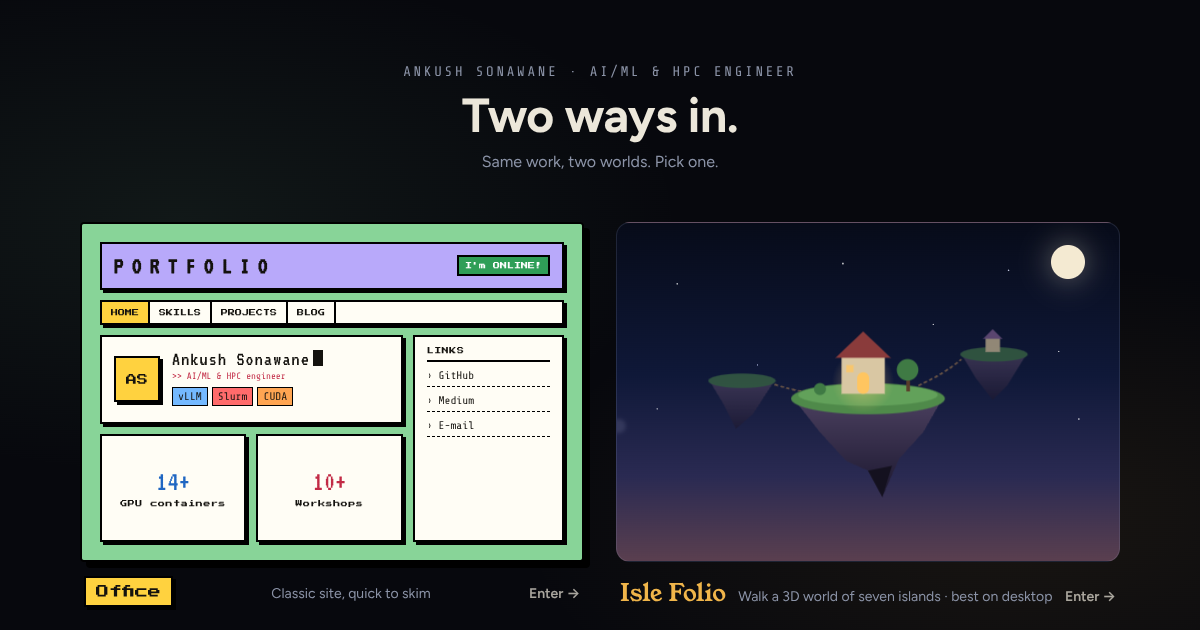
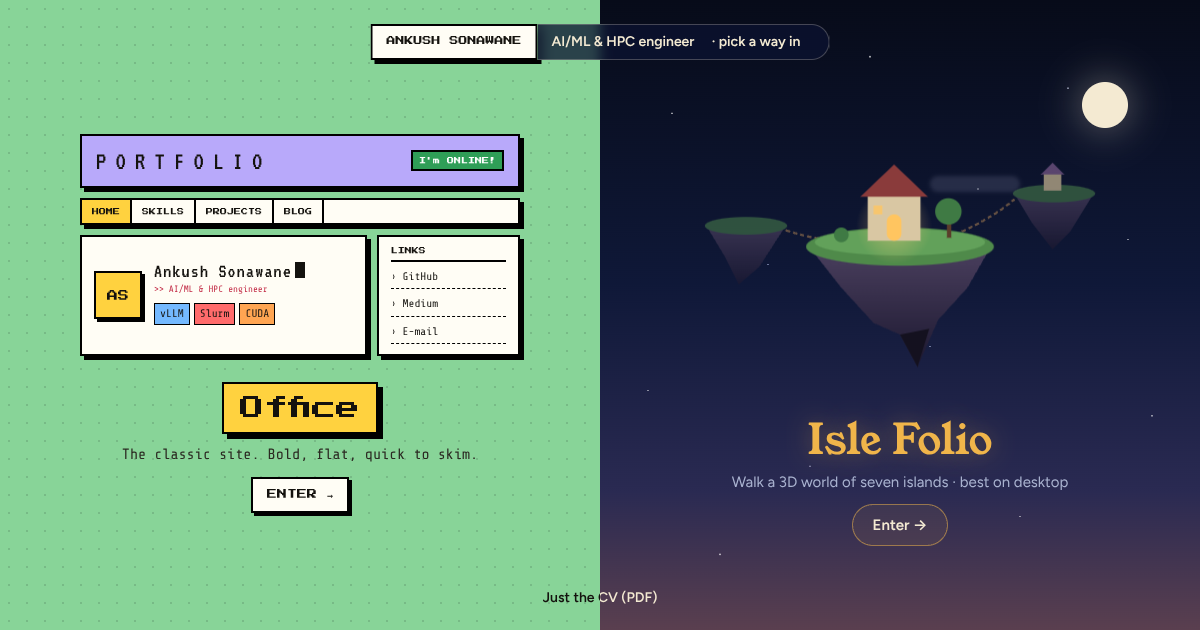
Gateway: split screen into the two portfolios' own worlds
The gateway was a generic dark page holding two cards that each had their
own look, so it matched neither. Now the page itself is the choice:
- Left half is Office (mint dotted ground, mini neubrutalist page,
  pixel-font title and button); right half is Isle Folio's night sky
  (stars, moon, drifting clouds, bobbing islands, ember serif title).
- Hovering a half widens it and dims the other; the name chip (top) and
  CV link (bottom) ride the seam, each half styled in its own world.
- Phones stack the halves.
- og.png regenerated.

Claude-Session: https://claude.ai/code/session_01RsCNkEyLUGrr5oVvQHitHw

diff --git a/index.html b/index.html
@@ -1,5 +1,5 @@
 <!doctype html>
-<!-- Gateway: pick the classic Office portfolio or the 3D Isle Folio. Text is static so link previews can read it. -->
+<!-- Gateway: the page is split into the two portfolios' own worlds, Office (left) and Isle Folio (right). Text is static so link previews can read it. -->
 <html lang="en">
 <head>
 <meta charset="utf-8">
@@ -15,169 +15,184 @@
 <link rel="icon" type="image/png" href="shared/favicon.png">
 <link rel="preconnect" href="https://fonts.googleapis.com">
 <link rel="preconnect" href="https://fonts.gstatic.com" crossorigin>
-<link rel="stylesheet" href="https://fonts.googleapis.com/css2?family=VT323&family=Share+Tech+Mono&family=Press+Start+2P&family=Space+Grotesk:wght@700&family=Young+Serif&family=Figtree:wght@400;600;700&display=swap">
+<link rel="stylesheet" href="https://fonts.googleapis.com/css2?family=VT323&family=Share+Tech+Mono&family=Press+Start+2P&family=Young+Serif&family=Figtree:wght@400;600&display=swap">
 <style>
-:root{--bg:#07080d;--ink:#ece7da;--muted:#8b93a7;--line:rgba(173,186,222,.14);
-  --ember:#f0b54a}
+:root{--ink:#14120e;--paper:#FFFDF5;--mint:#88D498;--yellow:#FFD23F;--coral:#FF6B6B;--sky:#74B9FF;--orange:#FFA552;--lav:#B8A9FA;
+  --night:#0b1230;--cream:#f4ead2;--ember:#f0b54a;--haze:#a9b2cf}
 *{box-sizing:border-box;margin:0}
-html,body{min-height:100%}
-body{background:var(--bg);color:var(--ink);font:16px/1.5 Figtree,system-ui,sans-serif;
-  background-image:radial-gradient(60% 50% at 15% 30%,rgba(136,212,152,.08),transparent 70%),radial-gradient(60% 50% at 85% 70%,rgba(240,181,74,.08),transparent 70%);
-  display:grid;place-items:center;padding:clamp(24px,6vw,64px) 16px}
-main{width:100%;max-width:1040px}
-header{text-align:center;margin-bottom:clamp(28px,5vw,48px)}
-.kicker{font:14px 'Share Tech Mono',monospace;letter-spacing:.2em;text-transform:uppercase;color:var(--muted)}
-h1{font:700 clamp(30px,5vw,48px)/1.1 Figtree,sans-serif;margin:10px 0 8px;letter-spacing:-.01em}
-.sub{color:var(--muted)}
-.doors{display:grid;gap:24px;grid-template-columns:1fr}
-@media (min-width:760px){.doors{grid-template-columns:1fr 1fr;gap:32px}}
+html,body{height:100%}
+body{background:var(--night);font:16px/1.5 Figtree,system-ui,sans-serif;overflow-x:hidden}
+.sr{position:absolute;width:1px;height:1px;overflow:hidden;clip:rect(0 0 0 0)}
 
-.door{display:block;text-decoration:none;color:inherit;border-radius:18px;outline:none;transition:transform .35s cubic-bezier(.2,.8,.2,1)}
-.door:hover,.door:focus-visible{transform:translateY(-6px)}
-.screen{position:relative;height:clamp(260px,34vw,340px);border-radius:14px;overflow:hidden;border:1px solid var(--line);transition:box-shadow .35s,border-color .35s}
-.cap{display:flex;justify-content:space-between;align-items:baseline;gap:12px;padding:14px 4px 0;flex-wrap:wrap}
-.cap small{color:var(--muted);font-size:14px}
-.go{font-weight:600;font-size:14px;white-space:nowrap;opacity:.7;transition:opacity .3s,transform .3s}
-.door:hover .go,.door:focus-visible .go{opacity:1;transform:translateX(4px)}
+.split{position:relative;display:flex;min-height:100vh;min-height:100svh}
+.half{position:relative;flex:1 1 0;min-width:0;display:flex;flex-direction:column;align-items:center;justify-content:center;
+  gap:26px;padding:96px clamp(20px,4vw,56px) 80px;text-decoration:none;overflow:hidden;outline:none;
+  transition:flex-grow .55s cubic-bezier(.2,.8,.2,1),filter .4s}
+.half:hover,.half:focus-visible{flex-grow:1.3}
+.split:hover .half:not(:hover){filter:saturate(.6) brightness(.8)}
+.label{text-align:center;display:flex;flex-direction:column;align-items:center;gap:10px}
+.go{display:inline-block;transition:transform .2s}
 
-/* ---- office door: a mini of static-portfolio's neubrutalist "Office" look ---- */
-.office .screen{background:#88D498;border:2.5px solid #000;border-radius:4px;box-shadow:6px 6px 0 #000;color:#14120e;
-  font:11px 'Share Tech Mono',monospace;padding:clamp(12px,2vw,18px);display:flex;flex-direction:column;gap:10px;
-  transition:transform .15s,box-shadow .15s}
-.office:hover .screen,.office:focus-visible .screen{transform:translate(-3px,-3px);box-shadow:10px 10px 0 #000}
-.office:hover,.office:focus-visible{transform:none}
-.m-box{background:#FFFDF5;border:2px solid #000;box-shadow:3px 3px 0 #000}
-.m-head{background:#B8A9FA;display:flex;justify-content:space-between;align-items:center;padding:10px 12px}
-.m-logo{font:clamp(18px,2.4vw,24px) VT323,monospace;letter-spacing:.35em;font-weight:700}
+/* ---- Office half: static-portfolio's neubrutalist look ---- */
+.office{background:var(--mint) radial-gradient(rgba(0,0,0,.12) 1px,transparent 1.2px) 0 0/18px 18px;color:var(--ink);font-family:'Share Tech Mono',monospace}
+.mini{width:min(100%,440px);display:flex;flex-direction:column;gap:10px;font-size:11px;transition:transform .3s}
+.office:hover .mini,.office:focus-visible .mini{transform:rotate(-1.2deg) scale(1.02)}
+.m-box{background:var(--paper);border:2px solid #000;box-shadow:4px 4px 0 #000}
+.m-head{background:var(--lav);display:flex;justify-content:space-between;align-items:center;padding:12px 14px}
+.m-logo{font:26px VT323,monospace;letter-spacing:.35em}
 .m-badge{font:7px 'Press Start 2P',monospace;background:#2f9e57;color:#fff;border:2px solid #000;padding:5px 6px}
 .m-nav{display:flex;font:7px 'Press Start 2P',monospace}
-.m-nav i{font-style:normal;padding:7px 9px;border-right:2px solid #000}
+.m-nav i{font-style:normal;padding:8px 10px;border-right:2px solid #000}
 .m-nav i:nth-child(1){animation:tab 6s steps(1) infinite}
 .m-nav i:nth-child(2){animation:tab 6s steps(1) -4.5s infinite}
 .m-nav i:nth-child(3){animation:tab 6s steps(1) -3s infinite}
 .m-nav i:nth-child(4){animation:tab 6s steps(1) -1.5s infinite}
-@keyframes tab{0%{background:#FFD23F}25%,100%{background:transparent}}
-.m-grid{flex:1;display:grid;grid-template-columns:2fr 1fr;grid-template-rows:auto 1fr;gap:10px;min-height:0}
-.m-profile{display:flex;gap:12px;align-items:center;padding:12px}
-.m-av{flex:none;width:46px;height:46px;display:grid;place-items:center;background:#FFD23F;border:2px solid #000;box-shadow:3px 3px 0 #000;font:11px 'Press Start 2P',monospace}
-.m-profile b{display:block;font:20px VT323,monospace;letter-spacing:.06em}
-.m-profile b::after{content:"";display:inline-block;width:.5em;height:.8em;background:#14120e;margin-left:3px;vertical-align:-.05em;animation:blink 1s steps(1) infinite}
+@keyframes tab{0%{background:var(--yellow)}25%,100%{background:transparent}}
+.m-grid{display:grid;grid-template-columns:2fr 1fr;gap:10px}
+.m-profile{display:flex;gap:12px;align-items:center;padding:14px 12px}
+.m-av{flex:none;width:48px;height:48px;display:grid;place-items:center;background:var(--yellow);border:2px solid #000;box-shadow:3px 3px 0 #000;font:11px 'Press Start 2P',monospace}
+.m-profile b{display:block;font:20px VT323,monospace;letter-spacing:.06em;font-weight:400}
+.m-profile b::after{content:"";display:inline-block;width:.5em;height:.8em;background:var(--ink);margin-left:3px;vertical-align:-.05em;animation:blink 1s steps(1) infinite}
 .m-profile small{display:block;color:#c22a45;margin:2px 0 6px}
-.m-tags em{font-style:normal;display:inline-block;padding:2px 5px;margin:0 4px 4px 0;border:1.5px solid #000;background:#74B9FF}
-.m-tags em:nth-child(2){background:#FF6B6B}.m-tags em:nth-child(3){background:#FFA552}
-.m-side{grid-row:span 2;padding:10px 12px;display:flex;flex-direction:column;gap:7px}
-.m-side b,.m-stat small{font:7px 'Press Start 2P',monospace;letter-spacing:.08em}
-.m-side b{padding-bottom:6px;border-bottom:2px solid #000}
-.m-side span{border-bottom:1.5px dashed #000;padding-bottom:4px}
-.m-stats{display:grid;grid-template-columns:1fr 1fr;gap:10px}
-.m-stat{display:grid;place-items:center;align-content:center;gap:4px;padding:8px;transition:transform .15s,box-shadow .15s}
-.m-stat b{font:28px VT323,monospace;color:#1f66c2;line-height:1}
-.m-stat+.m-stat b{color:#c22a45}
-.office:hover .m-stat,.office:focus-visible .m-stat{transform:translate(2px,2px);box-shadow:1px 1px 0 #000}
+.m-tags em{font-style:normal;display:inline-block;padding:2px 5px;margin:0 4px 4px 0;border:1.5px solid #000;background:var(--sky)}
+.m-tags em:nth-child(2){background:var(--coral)}.m-tags em:nth-child(3){background:var(--orange)}
+.m-side{padding:10px 12px;display:flex;flex-direction:column;gap:7px}
+.m-side b{font:7px 'Press Start 2P',monospace;padding-bottom:6px;border-bottom:2px solid #000;font-weight:400}
+.m-side span{border-bottom:1.5px dashed #000;padding-bottom:3px}
 @keyframes blink{50%{opacity:0}}
-@media (max-width:520px){.m-stats{display:none}.m-grid{grid-template-rows:1fr}.m-side{grid-row:auto}}
-.office .cap b{font:13px 'Press Start 2P',monospace;color:#14120e;background:#FFD23F;border:2px solid #000;box-shadow:3px 3px 0 #000;padding:7px 10px}
+.office h2{font:400 clamp(18px,2.2vw,24px) 'Press Start 2P',monospace;background:var(--yellow);border:2.5px solid #000;box-shadow:5px 5px 0 #000;padding:12px 16px}
+.office p{font-size:15px;color:#2b2a22}
+.office .go{font:10px 'Press Start 2P',monospace;background:var(--paper);border:2px solid #000;box-shadow:3px 3px 0 #000;padding:10px 14px}
+.office:hover .go,.office:focus-visible .go{background:var(--coral);transform:translate(2px,2px);box-shadow:1px 1px 0 #000}
 
-/* ---- island door ---- */
-.isle .screen{background:linear-gradient(#070b19 0%,#0f1838 45%,#2a2a52 75%,#5a3f4f 100%)}
+/* ---- Isle half: Isle Folio's night sky ---- */
+.isle{background:linear-gradient(#070b19 0%,#0f1838 45%,#2a2a52 78%,#5a3f4f 100%);color:var(--cream)}
 .stars{position:absolute;inset:0;background-image:
   radial-gradient(1.2px 1.2px at 12% 18%,#fff,transparent),radial-gradient(1px 1px at 28% 42%,#cdd6ff,transparent),
-  radial-gradient(1.4px 1.4px at 45% 12%,#fff,transparent),radial-gradient(1px 1px at 63% 30%,#fff,transparent),
+  radial-gradient(1.4px 1.4px at 45% 9%,#fff,transparent),radial-gradient(1px 1px at 63% 30%,#fff,transparent),
   radial-gradient(1.2px 1.2px at 78% 14%,#dfe5ff,transparent),radial-gradient(1px 1px at 88% 38%,#fff,transparent),
-  radial-gradient(1px 1px at 8% 55%,#fff,transparent),radial-gradient(1.2px 1.2px at 92% 58%,#fff,transparent);
+  radial-gradient(1px 1px at 8% 62%,#fff,transparent),radial-gradient(1.2px 1.2px at 92% 66%,#fff,transparent),
+  radial-gradient(1px 1px at 35% 74%,#dfe5ff,transparent),radial-gradient(1px 1px at 70% 82%,#fff,transparent),
+  radial-gradient(1.3px 1.3px at 20% 88%,#fff,transparent),radial-gradient(1px 1px at 55% 55%,#cdd6ff,transparent);
   animation:twinkle 4s ease-in-out infinite alternate}
-.moon{position:absolute;top:22px;right:34px;width:34px;height:34px;border-radius:50%;background:#f4ead2;box-shadow:0 0 30px rgba(244,234,210,.45)}
-.cloud{position:absolute;height:14px;border-radius:999px;background:rgba(220,226,255,.12);filter:blur(2px)}
-.c1{width:120px;top:58%;left:-130px;animation:drift 26s linear infinite}
-.c2{width:80px;top:30%;left:-90px;animation:drift 34s linear -14s infinite}
-.isle svg{position:absolute;left:50%;top:52%;width:min(78%,360px);transform:translate(-50%,-50%);overflow:visible}
+.moon{position:absolute;top:13%;right:12%;width:46px;height:46px;border-radius:50%;background:var(--cream);box-shadow:0 0 40px rgba(244,234,210,.45)}
+.cloud{position:absolute;height:16px;border-radius:999px;background:rgba(220,226,255,.12);filter:blur(2px)}
+.c1{width:140px;top:62%;left:-150px;animation:drift 30s linear infinite}
+.c2{width:90px;top:28%;left:-100px;animation:drift 38s linear -16s infinite}
+.isle svg{position:relative;width:min(100%,440px);overflow:visible}
 .isle .main{animation:bob 5s ease-in-out infinite}
 .isle .far{animation:bob 6s ease-in-out -2s infinite}
 .glow{opacity:.45;transition:opacity .4s}
 .isle:hover .glow,.isle:focus-visible .glow{opacity:1}
-.isle:hover .screen,.isle:focus-visible .screen{border-color:rgba(240,181,74,.55);box-shadow:0 0 0 1px rgba(240,181,74,.2),0 0 44px rgba(240,181,74,.22)}
 .isle:hover .main,.isle:focus-visible .main{animation-duration:2.6s}
 @keyframes bob{50%{transform:translateY(-8px)}}
-@keyframes drift{to{transform:translateX(calc(100vw + 260px))}}
+@keyframes drift{to{transform:translateX(calc(60vw + 300px))}}
 @keyframes twinkle{to{opacity:.55}}
-.isle .cap b{font:400 24px 'Young Serif',serif;color:var(--ember)}
-.note{margin-top:8px;color:var(--ember);font-size:14px}
+.isle .label{position:relative}
+.isle h2{font:400 clamp(30px,3.6vw,42px)/1 'Young Serif',serif;color:var(--ember);text-shadow:0 0 24px rgba(240,181,74,.35)}
+.isle p{font-size:15px;color:var(--haze)}
+.isle .go{font-weight:600;font-size:15px;color:var(--cream);border:1px solid rgba(240,181,74,.5);border-radius:999px;padding:9px 20px;background:rgba(240,181,74,.08);transition:transform .2s,box-shadow .3s,background .3s}
+.isle:hover .go,.isle:focus-visible .go{background:rgba(240,181,74,.18);box-shadow:0 0 24px rgba(240,181,74,.35);transform:translateX(4px)}
+.note{color:var(--ember);font-size:14px;max-width:34ch}
 
-.door:focus-visible .screen{outline:2px solid var(--ink);outline-offset:4px}
-footer{margin-top:40px;text-align:center;font-size:14px;color:var(--muted)}
-footer a{color:inherit}
-@media (prefers-reduced-motion:reduce){*,*::before,*::after{animation:none!important;transition:none!important}
+/* ---- the seam: name across the top, CV across the bottom ---- */
+.who,.cv{position:absolute;left:50%;transform:translateX(-50%);z-index:2;display:flex;white-space:nowrap}
+.who,.cv{transition:left .55s cubic-bezier(.2,.8,.2,1)}
+.split:has(.office:hover) :is(.who,.cv),.split:has(.office:focus-visible) :is(.who,.cv){left:56.52%}  /* seam at 1.3/2.3 */
+.split:has(.isle:hover) :is(.who,.cv),.split:has(.isle:focus-visible) :is(.who,.cv){left:43.48%}
+.who{top:24px}
+.who span{padding:9px 14px}
+.who .a{font:9px/1.4 'Press Start 2P',monospace;color:var(--ink);background:var(--paper);border:2px solid #000;box-shadow:4px 4px 0 #000}
+.who .b{font:600 14px/1.15 Figtree,sans-serif;color:var(--cream);background:rgba(11,18,48,.75);border:1px solid rgba(244,234,210,.25);border-left:0;border-radius:0 999px 999px 0;backdrop-filter:blur(6px)}
+.cv{bottom:22px;font-size:14px;font-weight:600;text-decoration:underline;text-underline-offset:3px;
+  background:linear-gradient(90deg,var(--ink) 50%,var(--cream) 50%);-webkit-background-clip:text;background-clip:text;color:transparent}
+
+@media (max-width:760px){
+  .split{flex-direction:column}
+  .half{flex:none;padding:76px 20px 48px;gap:20px}
+  .half:hover,.half:focus-visible{flex-grow:1}
+  .split:hover .half:not(:hover){filter:none}
+  .who,.cv,.split:has(.half:hover) :is(.who,.cv){left:50%}
+  .who{top:16px}
+  .who span{padding:8px 10px}
+  .who .a{font-size:8px}.who .b{font-size:13px}.x{display:none}
+  .moon{top:22px;right:22px;width:34px;height:34px}
+  .isle{padding-top:48px}
+  .cv{background:none;color:var(--cream)}
+  .isle{padding-bottom:72px}
+  .m-side{display:none}.m-grid{grid-template-columns:1fr}
 }
+.half:focus-visible{outline:3px solid var(--yellow);outline-offset:-6px}
+@media (prefers-reduced-motion:reduce){*,*::before,*::after{animation:none!important;transition:none!important}}
 </style>
 </head>
 <body>
-<main>
-  <header>
-    <p class="kicker">Ankush Sonawane · AI/ML &amp; HPC engineer</p>
-    <h1>Two ways in.</h1>
-    <p class="sub">Same work, two worlds. Pick one.</p>
-  </header>
+<h1 class="sr">Ankush Sonawane, AI/ML &amp; HPC engineer. Pick a way into the portfolio.</h1>
+<main class="split">
+  <p class="who"><span class="a">ANKUSH SONAWANE</span><span class="b">AI/ML &amp; HPC engineer<span class="x"> · pick a way in</span></span></p>
 
-  <div class="doors">
-    <a class="door office" href="static-portfolio/" aria-label="Enter Office, the classic portfolio">
-      <div class="screen" aria-hidden="true">
-        <div class="m-box m-head"><span class="m-logo">PORTFOLIO</span><span class="m-badge">I'm ONLINE!</span></div>
-        <div class="m-box m-nav"><i>HOME</i><i>SKILLS</i><i>PROJECTS</i><i>BLOG</i></div>
-        <div class="m-grid">
-          <div class="m-box m-profile"><span class="m-av">AS</span><div><b>Ankush Sonawane</b><small>&gt;&gt; AI/ML &amp; HPC engineer</small><span class="m-tags"><em>vLLM</em><em>Slurm</em><em>CUDA</em></span></div></div>
-          <div class="m-box m-side"><b>LINKS</b><span>› GitHub</span><span>› Medium</span><span>› E-mail</span></div>
-          <div class="m-stats"><div class="m-box m-stat"><b>14+</b><small>GPU containers</small></div><div class="m-box m-stat"><b>10+</b><small>Workshops</small></div></div>
-        </div>
+  <a class="half office" href="static-portfolio/" aria-label="Enter Office, the classic portfolio">
+    <div class="mini" aria-hidden="true">
+      <div class="m-box m-head"><span class="m-logo">PORTFOLIO</span><span class="m-badge">I'm ONLINE!</span></div>
+      <div class="m-box m-nav"><i>HOME</i><i>SKILLS</i><i>PROJECTS</i><i>BLOG</i></div>
+      <div class="m-grid">
+        <div class="m-box m-profile"><span class="m-av">AS</span><div><b>Ankush Sonawane</b><small>&gt;&gt; AI/ML &amp; HPC engineer</small><span class="m-tags"><em>vLLM</em><em>Slurm</em><em>CUDA</em></span></div></div>
+        <div class="m-box m-side"><b>LINKS</b><span>› GitHub</span><span>› Medium</span><span>› E-mail</span></div>
       </div>
-      <div class="cap"><b>Office</b><small>Classic site, quick to skim</small><span class="go">Enter →</span></div>
-    </a>
+    </div>
+    <div class="label">
+      <h2>Office</h2>
+      <p>The classic site. Bold, flat, quick to skim.</p>
+      <span class="go">ENTER →</span>
+    </div>
+  </a>
 
-    <a class="door isle" href="isle-folio/" aria-label="Enter Isle Folio, the walkable 3D portfolio">
-      <div class="screen" aria-hidden="true">
-        <div class="stars"></div><div class="moon"></div>
-        <div class="cloud c1"></div><div class="cloud c2"></div>
-        <svg viewBox="0 0 300 200">
-          <defs>
-            <radialGradient id="dg"><stop offset="0" stop-color="#ffd27a"/><stop offset="1" stop-color="#ffd27a" stop-opacity="0"/></radialGradient>
-            <linearGradient id="rk" x1="0" x2="0" y1="0" y2="1"><stop offset="0" stop-color="#4a3f5e"/><stop offset="1" stop-color="#1c1830"/></linearGradient>
-          </defs>
-          <g class="far" opacity=".7">
-            <path d="M18 92 L72 92 L54 120 L40 132 L30 112 Z" fill="url(#rk)"/>
-            <ellipse cx="45" cy="92" rx="28" ry="6" fill="#3d6b45"/>
-            <path d="M228 70 L282 70 L266 96 L254 108 L240 90 Z" fill="url(#rk)"/>
-            <ellipse cx="255" cy="70" rx="28" ry="6" fill="#3d6b45"/>
-            <rect x="248" y="56" width="12" height="12" fill="#c9b893"/><path d="M246 57 L254 49 L262 57 Z" fill="#7a5a8a"/>
-            <path d="M72 95 Q100 104 108 100" stroke="#8a6a4a" stroke-width="1.5" fill="none" stroke-dasharray="3 2"/>
-            <path d="M192 96 Q214 86 228 74" stroke="#8a6a4a" stroke-width="1.5" fill="none" stroke-dasharray="3 2"/>
-          </g>
-          <g class="main">
-            <path d="M88 100 L212 100 L196 128 L176 150 L162 182 L150 160 L132 152 L110 128 Z" fill="url(#rk)"/>
-            <path d="M150 160 L162 182 L170 156 Z" fill="#14111f"/>
-            <ellipse cx="150" cy="100" rx="64" ry="13" fill="#4f8a4a"/>
-            <ellipse cx="150" cy="97" rx="58" ry="9" fill="#62a15a"/>
-            <circle class="glow" cx="146" cy="86" r="26" fill="url(#dg)"/>
-            <rect x="128" y="64" width="36" height="32" fill="#d9c7a3"/>
-            <path d="M123 66 L146 44 L169 66 Z" fill="#8a3b3b"/>
-            <rect x="141" y="78" width="10" height="18" rx="5" fill="#ffc560"/>
-            <rect x="132" y="72" width="6" height="6" fill="#ffc560" opacity=".8"/>
-            <rect x="182" y="80" width="3" height="14" fill="#5a3d2a"/><circle cx="183" cy="76" r="9" fill="#3f7a44"/>
-            <circle cx="110" cy="92" r="5" fill="#3f7a44"/>
-          </g>
-        </svg>
-      </div>
-      <div class="cap"><b>Isle Folio</b><small>Walk a 3D world of seven islands · best on desktop</small><span class="go">Enter →</span></div>
-      <p class="note" id="nogl" hidden>Your browser can't run 3D, so this opens as plain text. The Office site is the better pick here.</p>
-    </a>
-  </div>
+  <a class="half isle" href="isle-folio/" aria-label="Enter Isle Folio, the walkable 3D portfolio">
+    <div class="stars" aria-hidden="true"></div><div class="moon" aria-hidden="true"></div>
+    <div class="cloud c1" aria-hidden="true"></div><div class="cloud c2" aria-hidden="true"></div>
+    <svg viewBox="0 0 300 200" aria-hidden="true">
+      <defs>
+        <radialGradient id="dg"><stop offset="0" stop-color="#ffd27a"/><stop offset="1" stop-color="#ffd27a" stop-opacity="0"/></radialGradient>
+        <linearGradient id="rk" x1="0" x2="0" y1="0" y2="1"><stop offset="0" stop-color="#4a3f5e"/><stop offset="1" stop-color="#1c1830"/></linearGradient>
+      </defs>
+      <g class="far" opacity=".7">
+        <path d="M18 92 L72 92 L54 120 L40 132 L30 112 Z" fill="url(#rk)"/>
+        <ellipse cx="45" cy="92" rx="28" ry="6" fill="#3d6b45"/>
+        <path d="M228 70 L282 70 L266 96 L254 108 L240 90 Z" fill="url(#rk)"/>
+        <ellipse cx="255" cy="70" rx="28" ry="6" fill="#3d6b45"/>
+        <rect x="248" y="56" width="12" height="12" fill="#c9b893"/><path d="M246 57 L254 49 L262 57 Z" fill="#7a5a8a"/>
+        <path d="M72 95 Q100 104 108 100" stroke="#8a6a4a" stroke-width="1.5" fill="none" stroke-dasharray="3 2"/>
+        <path d="M192 96 Q214 86 228 74" stroke="#8a6a4a" stroke-width="1.5" fill="none" stroke-dasharray="3 2"/>
+      </g>
+      <g class="main">
+        <path d="M88 100 L212 100 L196 128 L176 150 L162 182 L150 160 L132 152 L110 128 Z" fill="url(#rk)"/>
+        <path d="M150 160 L162 182 L170 156 Z" fill="#14111f"/>
+        <ellipse cx="150" cy="100" rx="64" ry="13" fill="#4f8a4a"/>
+        <ellipse cx="150" cy="97" rx="58" ry="9" fill="#62a15a"/>
+        <circle class="glow" cx="146" cy="86" r="26" fill="url(#dg)"/>
+        <rect x="128" y="64" width="36" height="32" fill="#d9c7a3"/>
+        <path d="M123 66 L146 44 L169 66 Z" fill="#8a3b3b"/>
+        <rect x="141" y="78" width="10" height="18" rx="5" fill="#ffc560"/>
+        <rect x="132" y="72" width="6" height="6" fill="#ffc560" opacity=".8"/>
+        <rect x="182" y="80" width="3" height="14" fill="#5a3d2a"/><circle cx="183" cy="76" r="9" fill="#3f7a44"/>
+        <circle cx="110" cy="92" r="5" fill="#3f7a44"/>
+      </g>
+    </svg>
+    <div class="label">
+      <h2>Isle Folio</h2>
+      <p>Walk a 3D world of seven islands · best on desktop</p>
+      <span class="go">Enter →</span>
+      <p class="note" id="nogl" hidden>Your browser can't run 3D, so this opens as plain text. Office is the better pick here.</p>
+    </div>
+  </a>
 
-  <footer><a href="shared/resume/Ankush_Sonawane_Resume.pdf">Just the CV (PDF)</a></footer>
+  <a class="cv" href="shared/resume/Ankush_Sonawane_Resume.pdf">Just the CV (PDF)</a>
 </main>
 
 <script>
-// No WebGL means Isle Folio falls back to text, so say so on its card.
+// No WebGL means Isle Folio falls back to text, so say so on its half.
 try { var c = document.createElement('canvas'); if(!(c.getContext('webgl') || c.getContext('experimental-webgl'))) throw 0; }
 catch(e){ document.getElementById('nogl').hidden = false; }
-
 </script>
 </body>
 </html>
